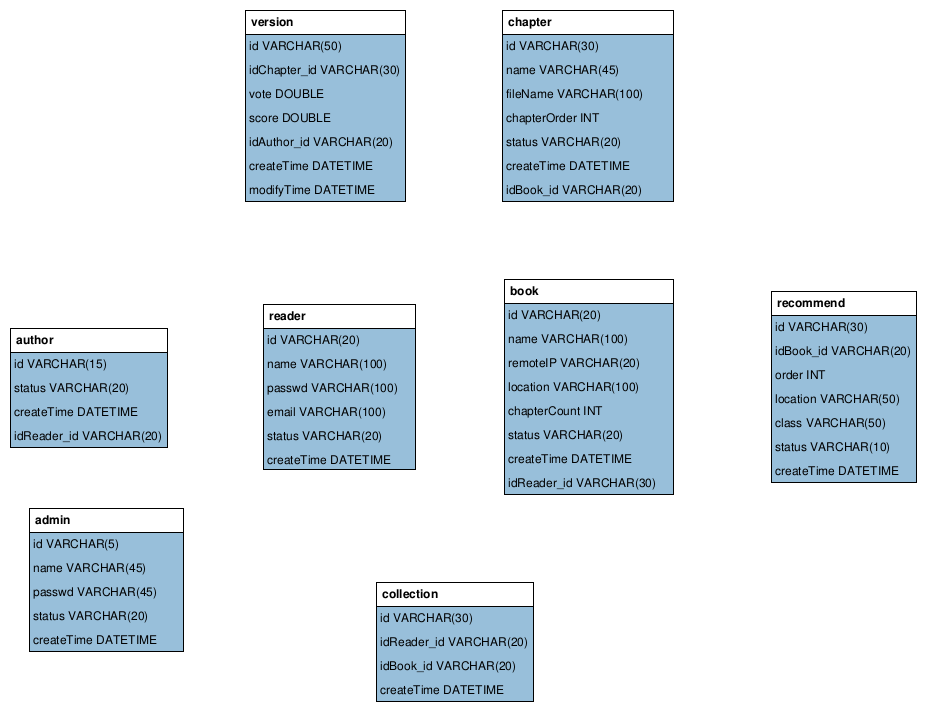
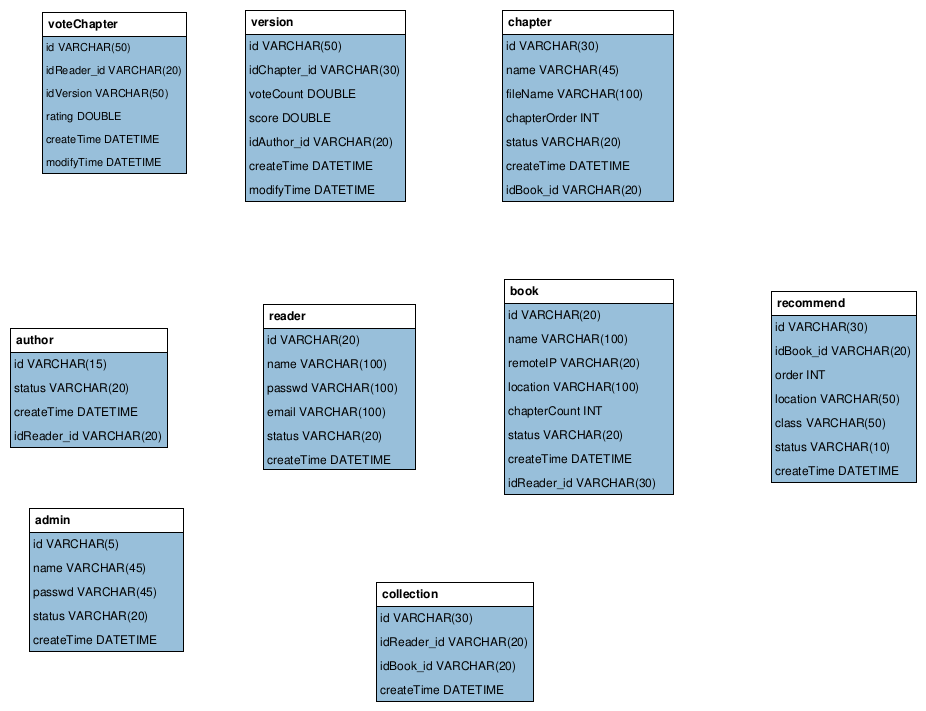
modify the database tables like version and voteChapter

Changed region(s): [[0.0302, 0.0, 0.2117, 0.2475], [0.3024, 0.1238, 0.3931, 0.1547]]

diff --git a/static/templatesJs/voteChapter/chapterVersionVote.js b/static/templatesJs/voteChapter/chapterVersionVote.js
@@ -13,11 +13,9 @@ jQuery(document).ready(
         var idVersion = $('#idVersion').val();
         var rating = $('#versionRating').val();
         var chapterFileName = $('#idBook').val() + $('#chapterOrder').val();
-        console.log(idVersion);
-        console.log(rating);
-        console.log(chapterFileName);
+
         $.ajax({
-          url: '/vote/chapterVersionVote/',
+          url: '/voteChapter/chapterVersionVote/',
           type: 'GET',
           dataType: 'json',
           data: {
@@ -30,6 +28,7 @@ jQuery(document).ready(
           console.log(resp);
           if (resp.res) {
             alert("投票成功");
+            window.location.reload();
           }
           else{
             alert(resp.message);

diff --git a/templates/content/chapterContent.html b/templates/content/chapterContent.html
@@ -84,4 +84,4 @@
 <script src="/static/js/star-rating.min.js" type="text/javascript"></script>
 <script src="/static/templatesJs/reader/backgroundImg.js" type="text/javascript"></script>
 <script src="/static/templatesJs/content/chapterContent.js" type="text/javascript"></script>
-<script src="/static/templatesJs/vote/chapterVersionVote.js" type="text/javascript"></script>
+<script src="/static/templatesJs/voteChapter/chapterVersionVote.js" type="text/javascript"></script>

diff --git a/voteChapter/models.py b/voteChapter/models.py
@@ -1,0 +1,79 @@
+#!/usr/bin/env python
+# -*- coding: utf-8 -*-
+
+from django.db import models
+from tool.tools import createId
+from time import localtime,strftime
+# from author.models import author
+from book.models import book
+from book.models import reader
+
+# Create your models here.
+class voteChapter(models.Model):
+    class Meta:
+        app_label = "voteChapter"
+        db_table = 'voteChapter'
+
+    id = models.CharField(max_length=50,primary_key=True)
+    idReader = models.CharField(max_length=20)  # in database,this variable is named "idReader_id"
+    idVersion = models.CharField(max_length=50)  # in database,this variable is named "idBook_id"
+    rating = models.FloatField()  # in database,this variable is named "idBook_id"
+    createTime = models.DateTimeField()
+    modifyTime = models.DateTimeField()
+
+    @classmethod
+    def getValue(self, idReader, returnArg):
+        try:
+            obj = self.objects.get(idBook_id=bookIdArg)
+            if returnArg == "id":
+                return True, 170000, obj.id
+            elif returnArg == "idReader":
+                return True, 170000, obj.name
+            elif returnArg == "idBook":
+                return True, 170000, obj.fileName
+            elif returnArg == "createTime":
+                return True, 170000, obj.chapterOrder
+            else:
+                return False, 170001, "錯誤 : getValue　讀取 voteChapter 表錯誤。voteChapter 表中不存在該屬性，returnArg錯誤。"
+        except self.DoesNotExist:
+                return False, 170002, "錯誤 : getValue　讀取 voteChapter 表錯誤。voteChapter 表不存在該數據。"
+        except Exception as e:
+                return False, 170003, str(e)
+
+    @classmethod
+    def getAll(self, idReaderArg):
+        try:
+            obj = self.objects.all().filter(idReader_id=idReaderArg)
+            return True, 170100, obj
+        except self.DoesNotExist:
+            return False, 170101, "錯誤: getAll 讀取 voteChapter 表錯誤。"
+        except Exception as e:
+            return False, 170102, str(e)
+
+    @classmethod
+    def add(self, idReader_id, idBook_id):
+
+        try:
+            nowTime = strftime("%Y-%m-%d %H:%M:%S", localtime())
+            idVal = createId(20, idReader_id + idBook_id)
+
+            obj = self(id=idVal, idReader_id=idReader_id, idBook_id = idBook_id, createTime=nowTime)
+            obj.save()
+            return True,170200, ""
+        except Exception as e:
+            print str(e)
+            return False,170201, str(e)
+
+    @classmethod
+    def deleteObj(self, idArg, idReaderArg):
+        try:
+            obj = self.objects.get(id=idArg)
+            if obj.idReader_id == idReaderArg:
+                obj.delete()
+                return True,170300, ""
+            else:
+                return True,170301, "您沒有權限刪除該收藏記錄"
+        except self.DoesNotExist:
+            return False, 170302, "delete 讀取 voteChapter 表錯誤"
+        except Exception as e:
+            return False,170303, str(e)

diff --git a/version/models.py b/version/models.py
@@ -16,7 +16,7 @@ class version(models.Model):
 
     id = models.CharField(max_length=50,primary_key=True)
     idChapter = models.ForeignKey(chapter) # in database,this variable is named "idChapter_id"
-    vote = models.FloatField(max_length=11)
+    voteCount = models.FloatField(max_length=11)
     score = models.FloatField(max_length=11)
     idAuthor = models.ForeignKey(reader)  # in database,this variable is named "idAuthor_id"
     createTime = models.DateTimeField(max_length=50)
@@ -31,8 +31,8 @@ class version(models.Model):
                 return True, 160400, obj.id
             elif returnArg == "idChapter":
                 return True, 160400, obj.idChapter
-            elif returnArg == "vote":
-                return True, 160400, obj.vote
+            elif returnArg == "voteCount":
+                return True, 160400, obj.voteCount
             elif returnArg == "score":
                 return True, 160400, obj.score
             elif returnArg == "idAuthor":
@@ -59,8 +59,8 @@ class version(models.Model):
                 return True, 160000, obj.id
             elif returnArg == "idChapter":
                 return True, 160000, obj.idChapter
-            elif returnArg == "vote":
-                return True, 160000, obj.vote
+            elif returnArg == "voteCount":
+                return True, 160000, obj.voteCount
             elif returnArg == "score":
                 return True, 160000, obj.score
             elif returnArg == "idAuthor":
@@ -87,24 +87,24 @@ class version(models.Model):
                 return False, 160203, str(e)
 
     @classmethod
-    def add(self, idChapter, vote, score, idAuthor):
+    def add(self, idChapter, voteCount, score, idAuthor):
         try:
             nowTime = strftime("%Y-%m-%d %H:%M:%S", localtime())
             idVal = createId(50, idChapter + idAuthor) # every author writeing is a version
             # idVal = createId(50, idChapter + idAuthor + nowTime) # every update is a version
-            obj = self(id=idVal, idChapter_id=idChapter, vote = vote, score=score, idAuthor_id = idAuthor, createTime=nowTime, modifyTime=nowTime,)
+            obj = self(id=idVal, idChapter_id=idChapter, voteCount = voteCount, score=score, idAuthor_id = idAuthor, createTime=nowTime, modifyTime=nowTime,)
             obj.save()
             return True,160101, ""
         except Exception as e:
             return False,160102, str(e)
 
     @classmethod
-    # def modifyObj(self, idChapter, vote, score, idAuthor):
+    # def modifyObj(self, idChapter, voteCount, score, idAuthor):
     def modifyObj(self, idVersion, argName, value):
         try:
             obj = self.objects.get(id=idVersion)
-            if argName == "vote":
-                obj.vote = value;
+            if argName == "voteCount":
+                obj.voteCount = value;
                 obj.save()
             elif argName == "score":
                 obj.score = value;

diff --git a/voteChapter/view/chapterVersionVote.py b/voteChapter/view/chapterVersionVote.py
@@ -47,22 +47,25 @@ def chapterVersionVote(request):
 
     try:
         # get old rating
-        res,statusNumber,mes =  version.getValueById(idVersion, "vote")
+        res,statusNumber,mes =  version.getValueById(idVersion, "all")
         if not res:
             context['res'] = "fail"
             context['statusNumber'] = statusNumber
             context['message'] = '錯誤： ' + str(statusNumber) + " ， " + mes
             return JsonResponse(context)
+        
         # check is or not this chapter
-        # modify the vote and socre into database
-        ratingUserFloat = float(ratingUser) + float(mes)
-        res, statusNumber, mes = version.modifyObj(idVersion, "vote", ratingUserFloat)
+        # modify the voteCount and socre into database
+        voteCountNew = int(mes.voteCount) + 1
+        scoreNew = (float(mes.score) + float(ratingUser)) / voteCountNew
+        res, statusNumber, mes = version.modifyObj(idVersion, "voteCount", voteCountNew)
         if not res:
             context['res'] = "fail"
             context['statusNumber'] = statusNumber
             context['message'] = '錯誤： ' + str(statusNumber) + " ， " + mes
             return JsonResponse(context)
-        res, statusNumber, mes = version.modifyObj(idVersion, "score", ratingUserFloat)
+
+        res, statusNumber, mes = version.modifyObj(idVersion, "score", scoreNew)
         if not res:
             context['res'] = "fail"
             context['statusNumber'] = statusNumber

diff --git a/content/view/readerGetContent.py b/content/view/readerGetContent.py
@@ -103,20 +103,20 @@ def showHistory(request):
         authors = p.stdout.readlines()
         context['authorList'] = authors
 
-        # step1: get version and votes info of every author from databases
+        # step1: get version and score info of every author from databases
         idAuthorsAndVotes = []
         res, statusNumber, mes  = chapter.getValue(idBook ,"id")
         idChapterArg = mes
         if res:
             res,statusNumber,ver = version.getVersionsByIdChapter(idChapterArg)
             for v in ver:
-                idAuthorAndVote = {"vote": 0, "score": 0, "idAuthor": ""}
+                idAuthorAndVote = {"idVersion" : "", "voteCount": 0, "score": 0, "idAuthor": ""}
                 idAuthorAndVote["idVersion"] = v.id
-                idAuthorAndVote["vote"] = int(v.vote)
-                idAuthorAndVote["score"] = int(v.score)
+                idAuthorAndVote["voteCount"] = int(v.voteCount)
+                idAuthorAndVote["score"] = float(v.score)
                 idAuthorAndVote["idAuthor"] = v.idAuthor_id
                 idAuthorsAndVotes.append(idAuthorAndVote)
-        idAuthorsAndVotes.sort(reverse = True, key=lambda x:(x['vote'],x['score']))
+        idAuthorsAndVotes.sort(reverse = True, key=lambda x:(x['score'],x['voteCount']))
 
         # lastest content of the author which you want to search
         idAuthorToSearch = ""

diff --git a/WeArt/urls.py b/WeArt/urls.py
@@ -28,5 +28,5 @@ urlpatterns = [
     url('^book/', include('book.urls')),
     url('^content/', include('content.urls')),
     url('^collection/', include('collection.urls')),
-    url('^vote/', include('vote.urls')),
+    url('^voteChapter/', include('voteChapter.urls')),
 ]

diff --git a/voteChapter/urls.py b/voteChapter/urls.py
@@ -1,6 +1,6 @@
 from django.conf.urls import include, url
 from django.contrib import admin
-from vote.view.chapterVersionVote import *
+from voteChapter.view.chapterVersionVote import *
 
 urlpatterns = [
     # url(r'^admin/', include(admin.site.urls)),

diff --git a/voteChapter/apps.py b/voteChapter/apps.py
@@ -4,5 +4,5 @@ from __future__ import unicode_literals
 from django.apps import AppConfig
 
 
-class VoteConfig(AppConfig):
-    name = 'vote'
+class VotechapterConfig(AppConfig):
+    name = 'voteChapter'
